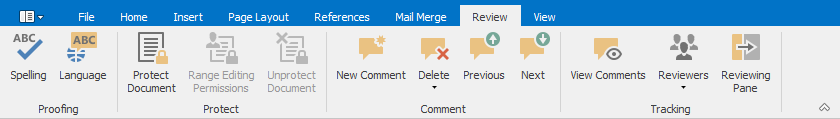
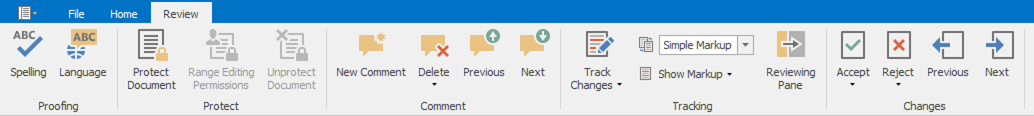
update ribbon interface

diff --git a/interface-elements-for-desktop/articles/rich-text-editor/text-editor-ui/ribbon-interface.md b/interface-elements-for-desktop/articles/rich-text-editor/text-editor-ui/ribbon-interface.md
@@ -4,10 +4,13 @@ author: Boris Zaitsev
 legacyId: 9270
 ---
 # Ribbon Interface
+
 The comprehensive functionality for the **Rich Text** control can be provided via set of Ribbon tabbed pages. Ribbon pages are structurally and visually split into logical groups. Each of these groups includes commands that have some common features.
 
 ## File
+
 ![RTERibbonMenuFile](../../../images/img121234.png)
+
 * [Create a New Document](../file-operations/create-a-new-document.md)
 * [Load a Document](../file-operations/load-a-document.md)
 * [Save a Document](../file-operations/save-a-document.md)
@@ -16,7 +19,9 @@ The comprehensive functionality for the **Rich Text** control can be provided vi
 * [Set Document Properties](../miscellaneous/set-document-properties.md)
 
 ## Home
+
 ![RTERibbonMenuHome](../../../images/img121235.png)
+
 * [Use a Clipboard](../text-editing/use-a-clipboard.md)
 * [Format Text](../formatting/format-text.md)
 * [Format Paragraphs](../formatting/format-paragraphs.md)
@@ -24,7 +29,9 @@ The comprehensive functionality for the **Rich Text** control can be provided vi
 * [Find and Replace Text](../text-editing/find-and-replace-text.md)
 
 ## Insert
+
 ![RTERibbonMenuInsert](../../../images/img121236.png)
+
 * [Insert a Page Break](../miscellaneous/insert-a-page-break.md)
 * [Insert a Table](../tables/insert-a-table.md)
 * [Insert a Picture](../pictures-and-text-boxes/insert-a-picture.md)
@@ -36,7 +43,9 @@ The comprehensive functionality for the **Rich Text** control can be provided vi
 * [Insert a Symbol](../miscellaneous/insert-a-symbol.md)
 
 ## Page Layout
+
 ![RTERibbonMenuPageLayout](../../../images/img121237.png)
+
 * [Adjust Page Settings](../document-layout-and-page-setup/adjust-page-settings.md)
 * [Lay Out Text in Columns](../document-layout-and-page-setup/lay-out-text-in-columns.md)
 * [Insert a Page Break](../miscellaneous/insert-a-page-break.md)
@@ -45,35 +54,47 @@ The comprehensive functionality for the **Rich Text** control can be provided vi
 * [Change Page Background Color](../document-layout-and-page-setup/change-page-background-color.md)
 
 ## References
+
 ![RTERibbonMenuReferences](../../../images/img121238.png)
+
 * [Create a Table of Contents](../table-of-contents/create-a-table-of-contents.md)
 * [Create Table of Contents for Special Cases](../table-of-contents/create-table-of-contents-for-special-cases.md)
 * [Update Table of Contents](../table-of-contents/update-table-of-contents.md)
 
 ## Mail Merge
+
 ![RTERibbonMenuMailMerge](../../../images/img121265.png)
 
 [Mail Merge](../mail-merge.md)
 
 ## Review
+
 ![RTERibbonMenuReview](../../../images/img121240.png)
+
 * [Check Text Spelling](../text-editing/check-text-spelling.md)
 * [Protect and Unprotect a Document](../document-protection/protect-and-unprotect-a-document.md)
 * [Insert a Comment](../miscellaneous/insert-a-comment.md)
+* [Enable Track Changes](../track-changes/enable-track-changes.md)
+* [Accept and Reject Changes](../track-changes/accept-and-reject-changes.md)
 
 ## View
+
 ![RTERibbonMenuView](../../../images/img121239.png)
+
 * [Switch Document Views](../viewing-and-navigating/switch-document-views.md)
 * [Show Rulers](../viewing-and-navigating/switch-document-views.md)
 * [Zoom a Document](../viewing-and-navigating/zoom-a-document.md)
 
 ## Header &amp; Footer Tools / Design
+
 ![RTERibbonMenuHeaderFooterTools](../../../images/img121241.png)
 
 [Header and Footer](../header-and-footer.md)
 
 ## Table Tools / Design
+
 ![RTERibbonMenuTableToolsDesign](../../../images/img121242.png)
+
 * [Select a Cell, Row or Column](../tables/select-a-cell-row-or-column.md)
 * [Set Table Properties](../tables/set-table-properties.md)
 * [Insert a Cell, Row or Column](../tables/insert-a-cell-row-or-column.md)
@@ -83,13 +104,17 @@ The comprehensive functionality for the **Rich Text** control can be provided vi
 * [Align Text in Table Cells](../tables/align-text-in-table-cells.md)
 
 ## Table Tools / Layout
-![RTERibbonmenuTableToolsLayout](../../../images/img121243.png)
+
+![RTERibbonMenuTableToolsLayout](../../../images/img121243.png)
+
 * [Add and Remove Table Borders](../tables/add-and-remove-table-borders.md)
 * [Customize a Style of Cell Borders](../tables/customize-a-style-of-cell-borders.md)
 * [Set Background Color of Cells](../tables/set-background-color-of-cells.md)
 
 ## Picture Tools / Format
+
 ![RTERibbonMenuPictureToolsLayout](../../../images/img121244.png)
+
 * [Add, Change or Delete a Border for a Picture or Text Box](../pictures-and-text-boxes/add-change-or-delete-a-border-for-a-picture-or-text-box.md)
 * [Add, Change or Delete a Text Box Fill](../pictures-and-text-boxes/add-change-or-delete-a-text-box-fill.md)
 * [Wrap Text around a Picture or Text Box](../pictures-and-text-boxes/wrap-text-around-a-picture-or-text-box.md)
